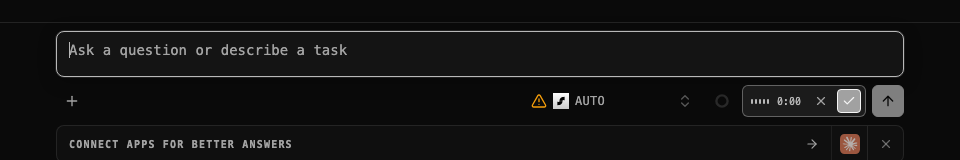
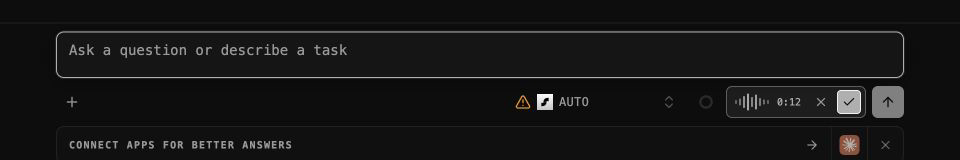
polish(chat): animate dictation voice trace

diff --git a/apps/screenpipe-app-tauri/components/chat/standalone/hooks/use-composer-dictation.test.tsx b/apps/screenpipe-app-tauri/components/chat/standalone/hooks/use-composer-dictation.test.tsx
@@ -22,6 +22,28 @@ const stopTrack = vi.fn();
 const stream = {
   getTracks: () => [{ stop: stopTrack }],
 } as unknown as MediaStream;
+let frameCallback: FrameRequestCallback | null = null;
+
+class FakeAudioContext {
+  createAnalyser() {
+    return {
+      fftSize: 0,
+      getByteTimeDomainData: (samples: Uint8Array) => {
+        samples.forEach((_, index) => {
+          samples[index] = index % 2 === 0 ? 190 : 66;
+        });
+      },
+    } as AnalyserNode;
+  }
+
+  createMediaStreamSource() {
+    return { connect: vi.fn() } as unknown as MediaStreamAudioSourceNode;
+  }
+
+  close() {
+    return Promise.resolve();
+  }
+}
 
 class FakeMediaRecorder {
   static isTypeSupported = () => true;
@@ -53,6 +75,16 @@ describe("useComposerDictation", () => {
     stopTrack.mockReset();
     transcribeComposerAudio.mockReset();
     vi.stubGlobal("MediaRecorder", FakeMediaRecorder);
+    vi.stubGlobal("AudioContext", FakeAudioContext);
+    vi.stubGlobal(
+      "requestAnimationFrame",
+      vi.fn((callback: FrameRequestCallback) => {
+        frameCallback = callback;
+        return 1;
+      }),
+    );
+    vi.stubGlobal("cancelAnimationFrame", vi.fn());
+    frameCallback = null;
     Object.defineProperty(navigator, "mediaDevices", {
       configurable: true,
       value: { getUserMedia: vi.fn().mockResolvedValue(stream) },
@@ -111,5 +143,21 @@ describe("useComposerDictation", () => {
     );
     expect(onValueChange).toHaveBeenCalledWith("Ask now about yesterday");
     expect(result.current.status).toBe("idle");
+  });
+
+  it("turns live microphone amplitude into a moving nine-bar trace", async () => {
+    const { result } = setup();
+
+    await act(async () => result.current.start());
+    expect(frameCallback).not.toBeNull();
+    act(() => frameCallback?.(100));
+
+    expect(result.current.waveform).toHaveLength(9);
+    expect(result.current.waveform.at(-1)).toBeGreaterThan(0.5);
+
+    await act(async () => {
+      result.current.cancel();
+      await Promise.resolve();
+    });
   });
 });

diff --git a/apps/screenpipe-app-tauri/components/chat/standalone/hooks/use-composer-dictation.ts b/apps/screenpipe-app-tauri/components/chat/standalone/hooks/use-composer-dictation.ts
@@ -27,7 +27,7 @@ type UseComposerDictationOptions = {
 };
 
 const MAX_RECORDING_MS = 5 * 60 * 1000;
-const DEFAULT_WAVEFORM = [0.12, 0.12, 0.12, 0.12, 0.12];
+const DEFAULT_WAVEFORM = Array.from({ length: 9 }, () => 0.04);
 
 function preferredAudioType(): string | undefined {
   if (typeof MediaRecorder === "undefined") return undefined;
@@ -135,9 +135,10 @@ export function useComposerDictation({
       audioContextRef.current = context;
       const samples = new Uint8Array(analyser.fftSize);
       let lastPaintAt = 0;
+      let smoothedLevel = 0.04;
       const paint = (now: number) => {
         if (!mountedRef.current || statusRef.current !== "recording") return;
-        if (now - lastPaintAt >= 80) {
+        if (now - lastPaintAt >= 64) {
           analyser.getByteTimeDomainData(samples);
           let squareSum = 0;
           for (const sample of samples) {
@@ -145,8 +146,13 @@ export function useComposerDictation({
             squareSum += centered * centered;
           }
           const rms = Math.sqrt(squareSum / samples.length);
-          const level = Math.min(1, Math.max(0.08, rms * 5));
-          setWaveform((previous) => [...previous.slice(1), level]);
+          const responsiveLevel =
+            rms < 0.015 ? 0.04 : Math.min(1, (rms - 0.015) * 9);
+          smoothedLevel = Math.max(
+            0.04,
+            smoothedLevel * 0.45 + responsiveLevel * 0.55,
+          );
+          setWaveform((previous) => [...previous.slice(1), smoothedLevel]);
           lastPaintAt = now;
         }
         animationFrameRef.current = requestAnimationFrame(paint);

diff --git a/apps/screenpipe-app-tauri/components/chat/standalone/composer-dictation-control.tsx b/apps/screenpipe-app-tauri/components/chat/standalone/composer-dictation-control.tsx
@@ -87,12 +87,19 @@ export function ComposerDictationControl({
         className="flex h-8 shrink-0 items-center gap-1 rounded-md border border-signal/45 bg-signal/10 px-1 text-signal"
         data-testid="composer-dictation-recording"
       >
-        <div className="flex h-4 items-center gap-[2px] px-1" aria-hidden="true">
+        <div
+          className="flex h-5 items-center gap-[2px] px-1"
+          aria-hidden="true"
+          data-testid="composer-dictation-waveform"
+        >
           {dictation.waveform.map((level, index) => (
             <span
               key={index}
-              className="w-[2px] rounded-full bg-signal transition-[height] duration-75 motion-reduce:transition-none"
-              style={{ height: `${Math.round(4 + level * 12)}px` }}
+              className="w-[2px] rounded-full bg-signal transition-[height,opacity] duration-150 ease-out motion-reduce:transition-none"
+              style={{
+                height: `${Math.round(3 + level * 15)}px`,
+                opacity: 0.45 + level * 0.55,
+              }}
             />
           ))}
         </div>

diff --git a/apps/screenpipe-app-tauri/components/chat/standalone/composer-dictation-control.test.tsx b/apps/screenpipe-app-tauri/components/chat/standalone/composer-dictation-control.test.tsx
@@ -24,7 +24,7 @@ vi.mock("@/components/chat/standalone/hooks/use-composer-dictation", () => ({
     error: mocks.error,
     canRetry: mocks.canRetry,
     elapsedMs: 2_000,
-    waveform: [0.1, 0.3, 0.8, 0.4, 0.2],
+    waveform: [0.1, 0.25, 0.45, 0.7, 1, 0.65, 0.4, 0.2, 0.08],
     start: mocks.start,
     finish: mocks.finish,
     cancel: mocks.cancel,
@@ -96,6 +96,9 @@ describe("ComposerDictationControl", () => {
       "aria-label",
       "Recording dictation, 0:02",
     );
+    const waveform = screen.getByTestId("composer-dictation-waveform");
+    expect(waveform.children).toHaveLength(9);
+    expect(waveform.children[4]).toHaveStyle({ height: "18px", opacity: "1" });
     fireEvent.click(screen.getByRole("button", { name: "Cancel dictation" }));
     fireEvent.click(screen.getByRole("button", { name: "Finish dictation" }));
     expect(mocks.cancel).toHaveBeenCalledTimes(1);
